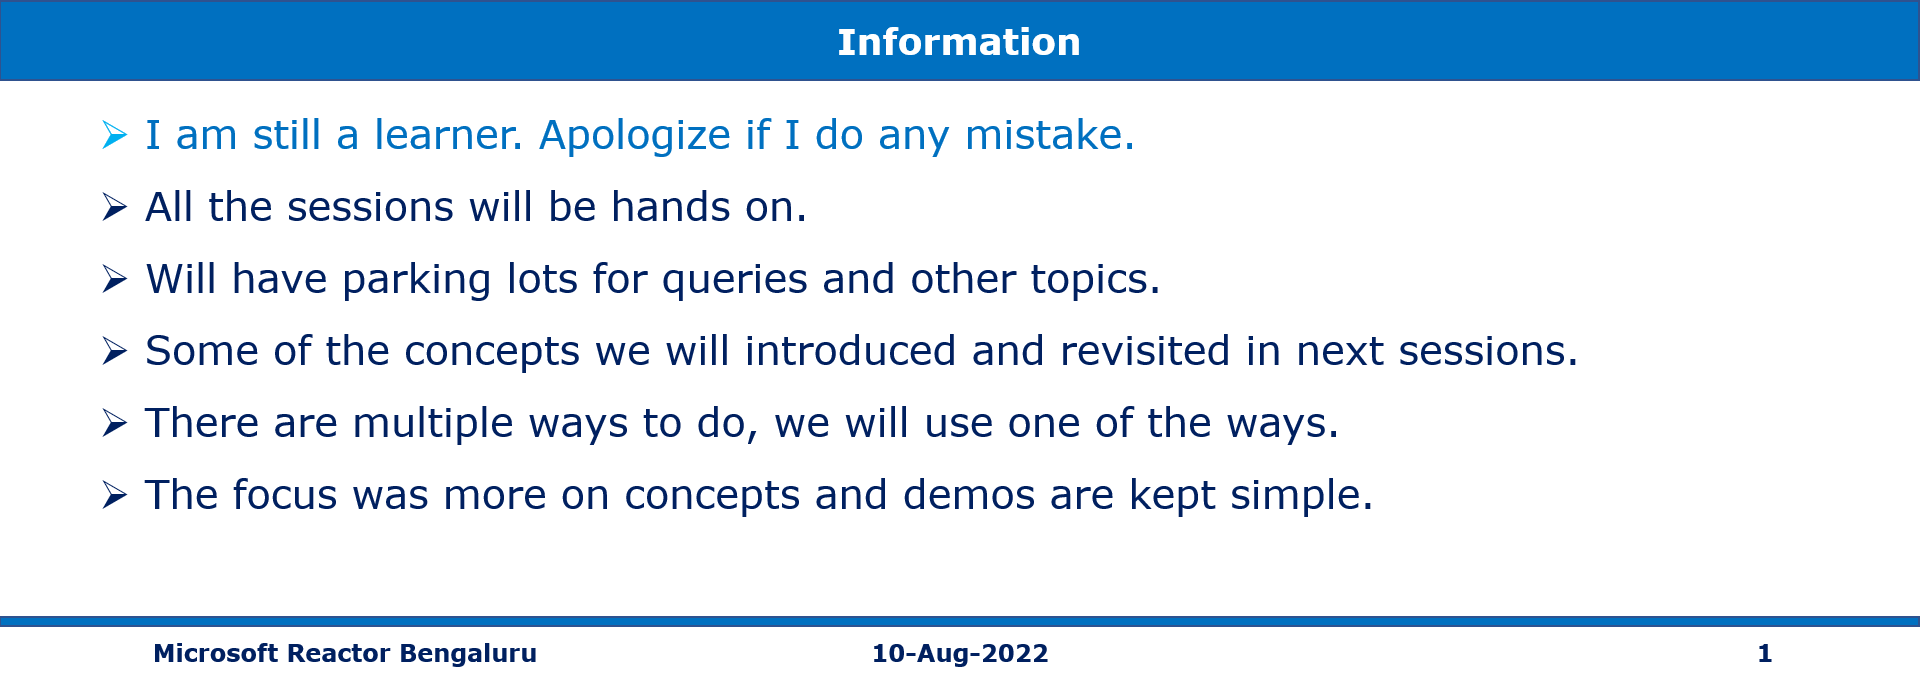
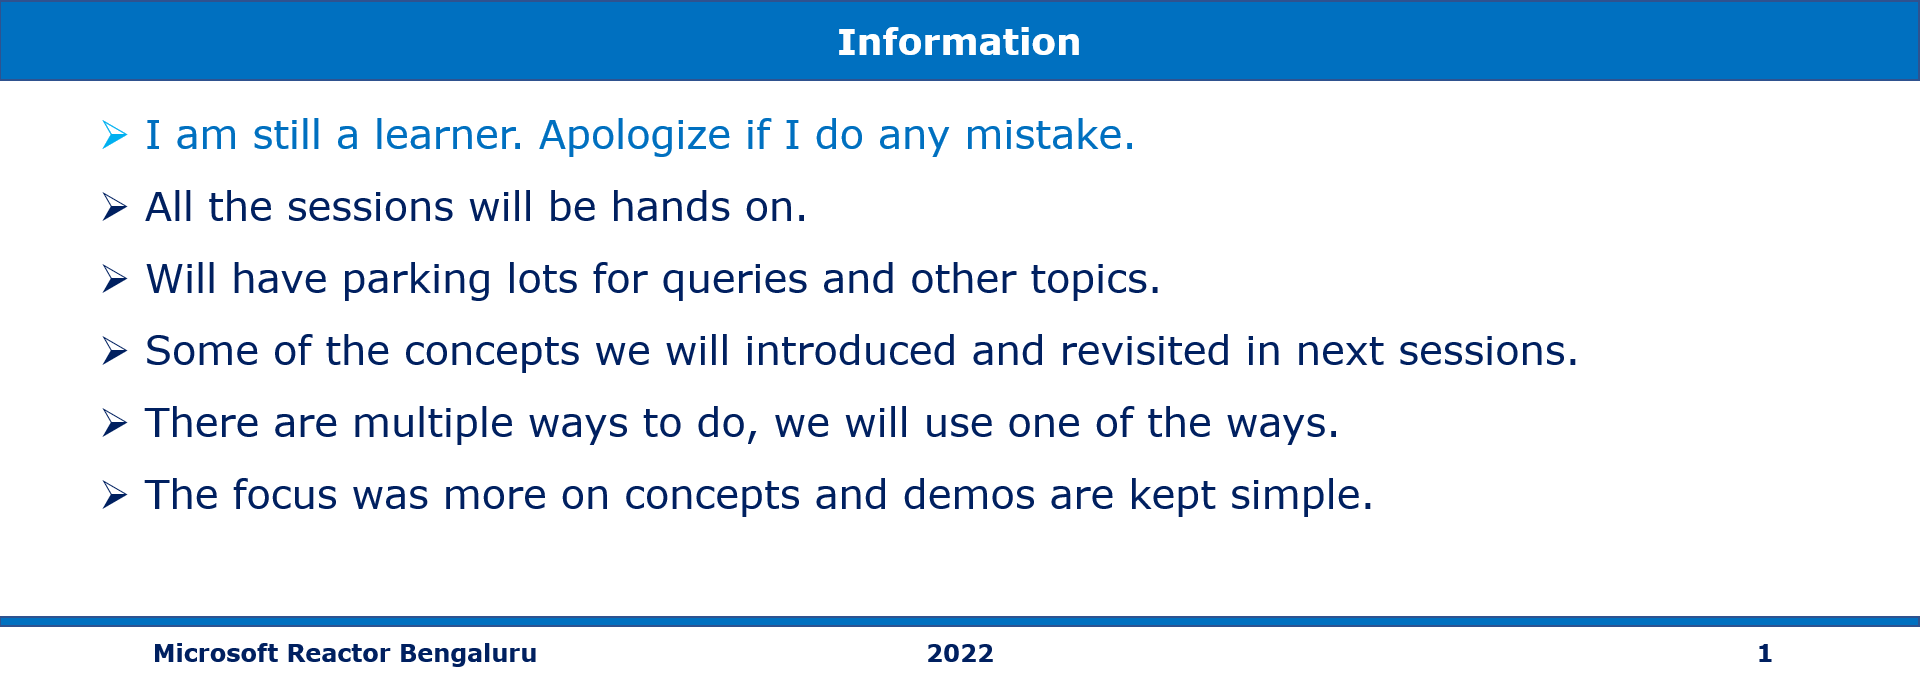
Swamy/az204 authenticationandauthorization 24aug2022 (#1)
* Deleted the files

* Update Demos.pptx

* Update README.md

diff --git a/microsoft-reactor/S21_2022Aug24_Authentication_Authorization/README.md b/microsoft-reactor/S21_2022Aug24_Authentication_Authorization/README.md
@@ -1,8 +1,8 @@
-# AZ-204 | Develop event-based solutions
+# AZ-204 |Implement user authentication and authorization
 
-## Date Time: 10-Aug-2022 at 09:00 AM IST
+## Date Time: 24-Aug-2022 at 09:00 AM IST
 
-## Event URL: [https://www.meetup.com/microsoft-reactor-bengaluru/events/287116794](https://www.meetup.com/microsoft-reactor-bengaluru/events/287116794)
+## Event URL: [https://www.meetup.com/microsoft-reactor-bengaluru/events/287116842](https://www.meetup.com/microsoft-reactor-bengaluru/events/287116842)
 
 ![Viswanatha Swamy P K |150x150](./Documentation/Images/ViswanathaSwamyPK.PNG)
 
@@ -41,23 +41,13 @@
 
 ## What are we doing today?
 
-> 1. Explore Azure Event Grid
-> 1. Discover event schemas
-> 1. Explore event delivery durability
-> 1. Control access to events
-> 1. Receive events by using webhooks
-> 1. Filter events
-> 1. Exercise: Route custom events to web endpoint by using Azure CLI
-> 1. Discover Azure Event Hubs
-> 1. Explore Event Hubs Capture
-> 1. Scale your processing application
-> 1. Control access to events
-> 1. Perform common operations with the Event Hubs client library
+> 1. Explore the Microsoft identity platform
+> 1. Implement authentication by using the Microsoft Authentication Library
+> 1. Implement shared access signatures
+> 1. Mini Project(s)
 > 1. Q & A
 
-### Please refer AZ-204 [**MS Learn Module**](https://aka.ms/AZ-204-DevelopingSolutions) for more details.
-
-### Please refer the [**Source code**](https://github.com/vishipayyallore/speaker-series-2022/tree/main/microsoft-reactor/S20_2022Jul20_EventBasedSolutions) for today's session code.
+### Please refer AZ-204 [**MS Learn Module**](https://aka.ms/AZ-204-Authentication) for more details.
 
 ---
 
@@ -65,91 +55,19 @@
 
 ---
 
-## Explore Azure Event Grid
+## Explore the Microsoft identity platform
 
 > 1. Discussion and Demo
 
-**Reference(s):**
-
-> 1. [https://docs.microsoft.com/en-us/azure/event-grid/overview](https://docs.microsoft.com/en-us/azure/event-grid/overview)
-
-## Hands on with Azure Event Grid using Portal
+## Implement authentication by using the Microsoft Authentication Library
 
 > 1. Discussion and Demo
 
-**Azure Resources for Storage EventGrid WebHook**
-![Azure Resources for Storage EventGrid WebHook | 100x100](./Documentation/Images/AzResources_Storage_EventGrid_WebHook.PNG)
-
-**Storage Events passed to EventGrid which sends to WebHook**
-![Storage EventGrid WebHook | 100x100](./Documentation/Images/Storage_EventGrid_WebHook.PNG)
-
-## Discover event schemas
+## Implement shared access signatures
 
 > 1. Discussion and Demo
 
-![Event Schema | 100x100](./Documentation/Images/Event_Schema.PNG)
-
-![Event Schema | 100x100](./Documentation/Images/Event_Schema_1.PNG)
-
-## Explore event delivery durability
-
-> 1. Discussion and Demo
-
-```AzureCLI
-eventgridname=egt-for-az-funcs
-rgname=rg-az204-eventbased-dev-001
-event='[ {"id": "'"$RANDOM"'", "eventType": "recordInserted", "subject": "myapp/vehicles/motorcycles", "eventTime": "'`date +%Y-%m-%dT%H:%M:%S%z`'", "data":{ "make": "Ducati", "model": "Monster V1"},"dataVersion": "1.0"} ]'
-
-endpoint=$(az eventgrid topic show --name $eventgridname -g $rgname --query "endpoint" --output tsv)
-
-key=$(az eventgrid topic key list --name $eventgridname -g $rgname --query "key1" --output tsv)
-
-curl -X POST -H "aeg-sas-key: $key" -d "$event" $endpoint
-```
-
-![Event Delivery Durability | 100x100](./Documentation/Images/Event_DeliveryDurability.PNG)
-
-![Azure Func Processing the Events | 100x100](./Documentation/Images/Event_T0_AzureFunc.PNG)
-
-![Azure Func Processing the Events | 100x100](./Documentation/Images/Azure_Func_Logs.PNG)
-
-## Control access to events
-
-> 1. Discussion and Demo
-
-## Receive events by using webhooks
-
-> 1. Discussion and Demo
-
-![Subscription Validation | 100x100](./Documentation/Images/SubscriptionValidation.PNG)
-
-## Filter events
-
-> 1. Discussion and Demo
-
-![Filtering Events | 100x100](./Documentation/Images/Filter_Demo.PNG)
-
-## Exercise: Route custom events to web endpoint by using Azure CLI
-
-> 1. Discussion and `LIVE Demo`
-
-## Discover Azure Event Hubs
-
-> 1. Discussion and Demo
-
-## Explore Event Hubs Capture
-
-> 1. Discussion and Demo
-
-## Scale your processing application
-
-> 1. Discussion and Demo
-
-## Control access to events
-
-> 1. Discussion and Demo
-
-## Perform common operations with the Event Hubs client library
+## Mini Project(s)
 
 > 1. Discussion and Demo
 
@@ -164,13 +82,10 @@ curl -X POST -H "aeg-sas-key: $key" -d "$event" $endpoint
 
 ---
 
-## What is Next? Session `21` of `21` Sessions on Aug 24, 2022
+## What is Next? Session `22` of `22` Sessions on Sep 07, 2022
 
-### AZ-204 |Implement user authentication and authorization
+### AZ-204 | To be done
 
-> 1. Explore the Microsoft identity platform
-> 1. Implement authentication by using the Microsoft Authentication Library
-> 1. Implement shared access signatures
-> 1. Explore Microsoft Graph API
+> 1. To be done
 > 1. Mini Project(s)
 > 1. Q & A
